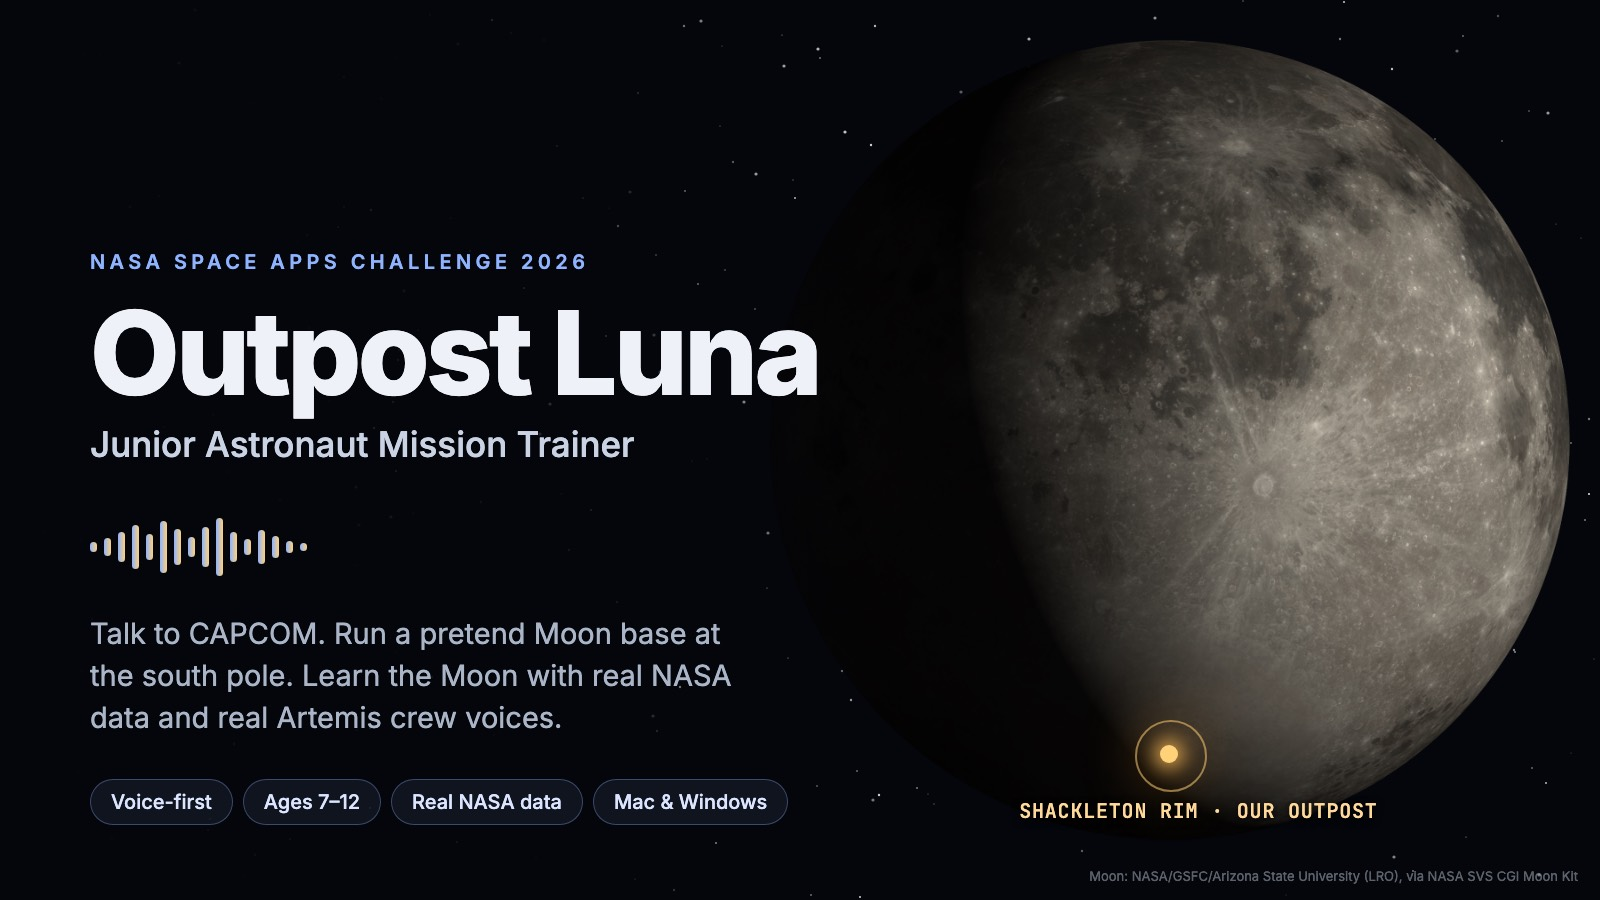
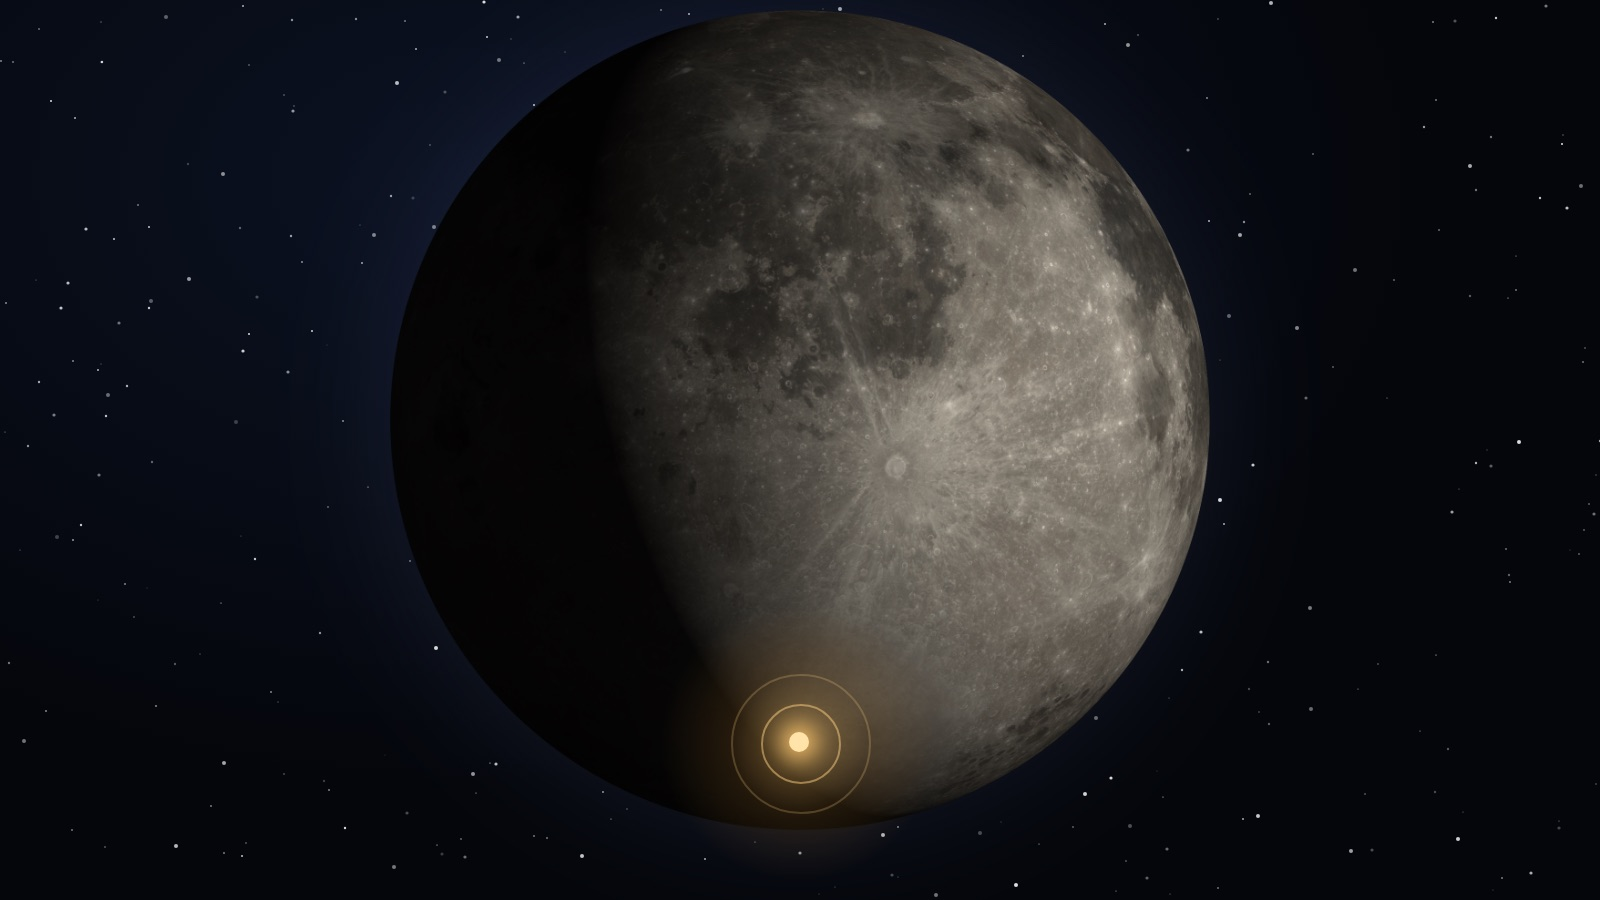
Copy: drop age/kids wording from site + README; text-free hero/og art

diff --git a/site/index.html b/site/index.html
@@ -4,10 +4,10 @@
 <meta charset="utf-8">
 <meta name="viewport" content="width=device-width, initial-scale=1">
 <title>Outpost Luna</title>
-<meta name="description" content="Outpost Luna: Junior Astronaut Mission Trainer. A voice-first desktop app for kids 7–12: Flight School with real Artemis crew audio and NASA videos, then a pretend Moon outpost at the south pole. Every model runs on the computer.">
+<meta name="description" content="Outpost Luna: Junior Astronaut Mission Trainer. A voice-first desktop app: Flight School with real Artemis crew audio and NASA videos, then a pretend Moon outpost at the south pole. Every model runs on the computer.">
 <meta property="og:type" content="website">
 <meta property="og:title" content="Outpost Luna: Junior Astronaut Mission Trainer">
-<meta property="og:description" content="A voice-first desktop app for kids 7–12. Learn the Moon with real Artemis crew audio and NASA data, then run a pretend outpost at the lunar south pole. Runs offline.">
+<meta property="og:description" content="A voice-first desktop app. Learn the Moon with real Artemis crew audio and NASA data, then run a pretend outpost at the lunar south pole. Runs offline.">
 <meta property="og:url" content="https://whissleai.github.io/Outpost-Luna/">
 <meta property="og:image" content="https://whissleai.github.io/Outpost-Luna/assets/og.jpg">
 <meta property="og:image:width" content="1080">
@@ -39,7 +39,7 @@
   <section class="hero">
     <p class="eyebrow">Junior Astronaut Mission Trainer · NASA Space Apps Challenge 2026</p>
     <h1>Train for the Moon by <em>talking</em> to CAPCOM.</h1>
-    <p class="lede">A voice-first desktop app for kids 7–12. Learn the Moon in Flight School with real Artemis crew audio and NASA videos, then run a pretend outpost at the lunar south pole. Every model runs on the computer.</p>
+    <p class="lede">A voice-first desktop app. Learn the Moon in Flight School with real Artemis crew audio and NASA videos, then run a pretend outpost at the lunar south pole. Every model runs on the computer.</p>
     <div class="cta">
       <a class="btn primary" href="https://www.dropbox.com/scl/fi/o7ywoe58gs7afy10fgolr/Outpost-Luna-0.1.0-arm64.dmg?rlkey=q3n2qkq2atguhbnnehkzqnff7&amp;dl=1">
         <svg viewBox="0 0 24 24" width="18" height="18" aria-hidden="true"><path fill="currentColor" d="M16.37 12.6c-.02-2.3 1.88-3.4 1.96-3.46-1.07-1.56-2.73-1.78-3.32-1.8-1.41-.14-2.76.83-3.47.83-.72 0-1.82-.81-2.99-.79-1.54.02-2.96.9-3.75 2.27-1.6 2.78-.41 6.89 1.15 9.14.76 1.1 1.67 2.34 2.86 2.3 1.15-.05 1.58-.74 2.97-.74 1.38 0 1.77.74 2.98.72 1.23-.02 2.01-1.12 2.76-2.23.87-1.28 1.23-2.52 1.25-2.58-.03-.01-2.39-.92-2.4-3.66ZM14.1 5.86c.63-.77 1.06-1.83.94-2.89-.91.04-2.01.61-2.67 1.37-.58.67-1.1 1.76-.96 2.8 1.02.08 2.06-.52 2.69-1.28Z"/></svg>

diff --git a/README.md b/README.md
@@ -1,6 +1,6 @@
 # Outpost Luna: Junior Astronaut Mission Trainer
 
-A voice-first trainer for kids 7–12, built for NASA Space Apps 2026 (Nov 14–15) on the challenge **"Build a Junior
+A voice-first Moon mission trainer, built for NASA Space Apps 2026 (Nov 14–15) on the challenge **"Build a Junior
 Astronaut Mission Trainer"**. Inspired by NASA's Artemis program and built on NASA open data. Not affiliated with or
 endorsed by NASA. (Formerly `ask-the-moon`.)
 
